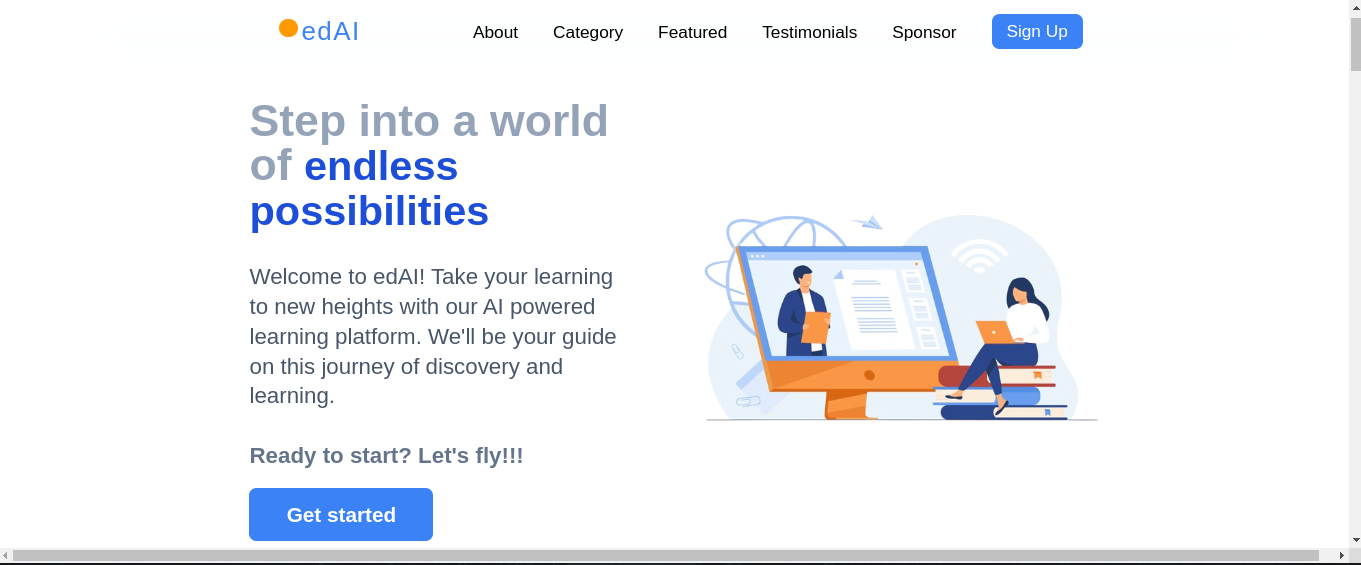
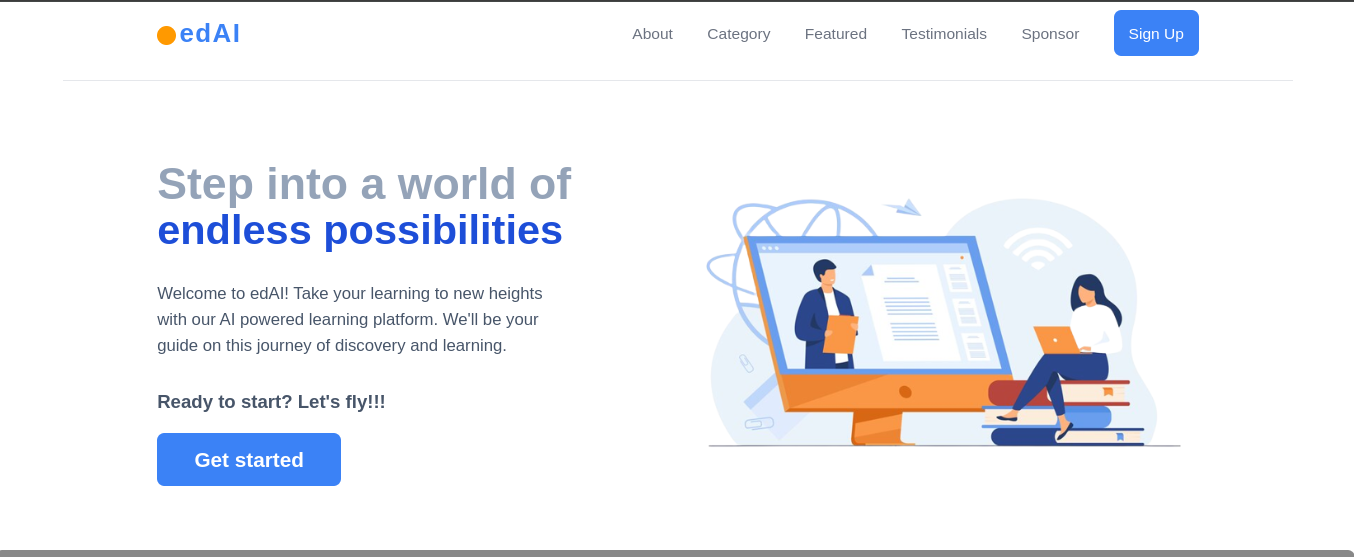
servces section

diff --git a/src/components/Hero/Hero.jsx b/src/components/Hero/Hero.jsx
@@ -43,7 +43,7 @@ const Hero = () => {
   		x: 0,
   	},
   	animate: {
-  		x: "-220%",
+  		x: "-500%",
   		transition: {
   			repeat: Infinity,
   			repeatType: "mirror",
@@ -82,34 +82,34 @@ const Hero = () => {
           variants={textVariants}
         >
           <motion.div
-            className="flex hover:translate-y-1 items-center justify-center text-center border border-[#7e61e7] rounded-full h-[2rem] w-[2rem]"
+            className="social-icon"
             variants={textVariants}
           >
-            <a href="https://m.facebook.com/profile.php?id=100086285746377">
+            <a href="https://m.facebook.com/profile.php?id=100086285746377" className='grid place-content-center'>
               <span className="pi pi-facebook text-center text-[#a993fe]"></span>
             </a>
           </motion.div>
 
           <motion.div
-            className=" flex items-center justify-center border border-[#7e61e7] rounded-full h-[2rem] w-[2rem] text-center relative"
+            className="social-icon"
             variants={textVariants}
           >
-            <a href="">
+            <a href="" className="grid place-content-center">
               <span className="pi pi-twitter text-center text-[#a993fe]"></span>
             </a>
           </motion.div>
           <motion.div
-            className=" flex items-center justify-center border border-[#7e61e7] rounded-full h-[2rem] w-[2rem] text-center relative"
+            className="social-icon"
             variants={textVariants}
           >
-            <a href="">
-              <span className="pi pi-linkedin text-center text-[#a993fe]"></span>
+            <a href="" className="grid place-content-center">
+              <span className="pi pi-linkedin text-[#a993fe]"></span>
             </a>
           </motion.div>
         </motion.div>
       </motion.div>
        <motion.div
-        className="slidingContainer w-[50%] z-[-2] font-bold absolute text-[50vh] bottom-[-120px] whitespace-nowrap text-[#ffffff09]"
+        className="slidingContainer w-[50%] z-[-2] font-bold absolute text-[10vh] md:text-[30vh] lg:text-[50vh] bottom-[-20px] md:bottom-[-50px] lg:bottom-[-120px] whitespace-nowrap text-[#ffffff09]"
         variants={sliderVariants}
         initial="initial"
         animate="animate"

diff --git a/src/index.css b/src/index.css
@@ -53,17 +53,17 @@ html {
 
   @media screen and (max-width: 640px) {
     .hero-container {
-      @apply overflow-x-hidden;
+      @apply overflow-x-hidden -mx-3;
     }
   }
 
   .hero-container::after, .hero-container::before {
     content: '';
-    @apply md:w-[18rem] md:h-[18rem] lg:w-[28.125rem] lg:h-[28.125rem] rounded-[28.125rem] bg-[#7c66e3] absolute z-[-1] blur-[225px];
+    @apply w-[12rem] h-[12rem] md:w-[18rem] md:h-[18rem] lg:w-[28.125rem] lg:h-[28.125rem] rounded-[28.125rem] bg-[#7c66e3] absolute z-[-1] blur-[225px];
   }
 
   .hero-container::after {
-    @apply md:top-0 md:left-0 lg:top-[-3rem] lg:left-[-5rem];
+    @apply top-[-1rem] md:top-0 md:left-0 lg:top-[-3rem] lg:left-[-5rem];
   }
 
   .hero-container::before {
@@ -97,6 +97,10 @@ html {
 
   .hero-img > div img:hover, .tech-icon img:hover {
     @apply translate-y-[-0.5rem];
+  }
+
+  .social-icon {
+    @apply grid place-content-center border-2 border-[#7e61e7] rounded-full h-[2.2rem] w-[2.2rem];
   }
 
   .span:nth-child(1) {

diff --git a/src/components/Projects/SingleItem.jsx b/src/components/Projects/SingleItem.jsx
@@ -1,9 +1,7 @@
 import { useRef } from 'react'
-import img from "../../assets/bg2.jpg"
 
 const SingleItem = ({ item }) => {
 	const ref = useRef()
-	console.log(img)
 	return (
 		<section ref={ref} className="py-96">
 			<div className="container">
